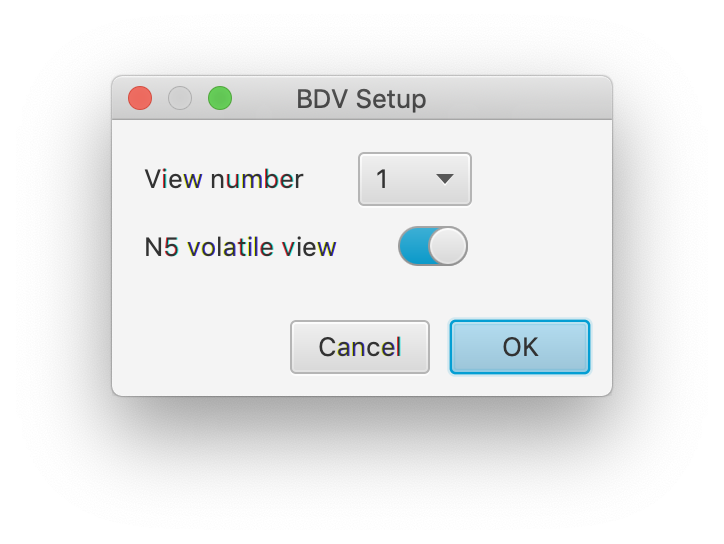
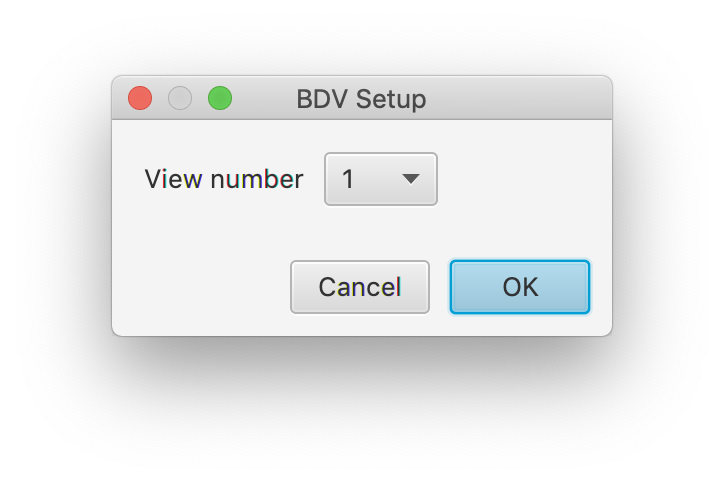
text updates

diff --git a/tutorials/WorkingWithMars/bdv.md b/tutorials/WorkingWithMars/bdv.md
@@ -4,37 +4,58 @@ title: "How to Find Tracked Molecules in the Video"
 permalink: /tutorials/workingwithmars/bdv/index.html
 ---
 
-_level: advanced, duration: 10 min_
+_level: advanced, duration: 15 min_
 
-This tutorial explores the **Rover** option to show a tracked molecule in the original video. This eminently useful function can be used for visual examination of the molecule after analysis for validation of the observed behavior. This would rule out flaws in tracking having a major impact on the drawn conclusion from the data.
+This tutorial explores the **Rover** option to show a tracked molecule in the original video. This enables the user to visually validate the observed behavior and to export small videos showing the movement of a single molecule. The video viewer is based on the [BigDataViewer](https://imagej.net/BigDataViewer#Description)<sup>1</sup> plugin and as such requires converting the video of interest to the BigDataViewer file format XML/HDF5 or in the [N5](https://github.com/saalfeldlab/n5) format.
 
-The video viewer is based on [BigDataViewer](https://imagej.net/BigDataViewer#Description)<sup>1</sup> and as such requires converting the video of interest to the BigDataViewer file format XML/HDF5 or in the [XML/N5](https://github.com/saalfeldlab/n5) format.
+The first part of this tutorial shows how to convert your video to either of these data formats, how to connect the video to the archive, and how to set up the parameters. These steps only have to be executed once per video per Archive and will then be saved for future use. The second part of the tutorial familiarizes the user with the viewer itself and with exporting options.
 
-Steps 1-3 are required to set up the connection between the Molecule Archive and the video. These only have to be executed once per Archive and can then be saved to the Archive for later reference. Please note that the explicit file path is saved, meaning that if the video files were to be stored at a different position, the file path would need to  be updated. If the connection has been established and saved, step 4 and 5 can be executed independently. To start, download the ['TestVideo.tif'](https://github.com/duderstadt-lab/mars-tutorials/tree/master/Tutorial_files/Working%20with%20Mars) dataset from the [git tutorials repository](https://github.com/duderstadt-lab/mars-tutorials/tree/master/Tutorial_files/Working%20with%20Mars).
+### Part one: Video conversion and coupling to the archive
+To start, download the ['TestVideo.tif'](https://github.com/duderstadt-lab/mars-tutorials/tree/master/Tutorial_files/Working%20with%20Mars) dataset from the [git tutorials repository](https://github.com/duderstadt-lab/mars-tutorials/tree/master/Tutorial_files/Working%20with%20Mars).
 
-### 1. Converting the Video to XML/H5 or XML/N5 Format  
-First open the video of interest in Fiji as a stack. Next select the BigDataViewer plugin and select the function "Export Current Image as XML/HDF5" or select "Export Current Image as XML/N5". This will open a dialogue in which the export path has to be set. Press ok and wait until the export process has finished. Find the exported video at the specified file path.
+#### 1. Converting the Video to XML/HDF5 or N5
+**XML/HDF5**
+First open the video of interest in Fiji as a stack. Next select the BigDataViewer plugin and select the function "Export Current Image as XML/HDF5". This will open a dialogue in which the export path has to be set. Press ok and wait until the export process has finished. Find the exported video at the specified file path.
 
 <div style="text-align: center"><img  src='{{site.baseurl}}/tutorials/img/bdv/img1.png' width='450'/></div>
 <div style="text-align: center">
 <img  src='{{site.baseurl}}/tutorials/img/bdv/img2.png' width='350'/>
 <img  src='{{site.baseurl}}/tutorials/img/bdv/img14.png' width='350'/></div>
 
-
 For further information and in-depth documentation about this software and file format please have a look in the [BigDataViewer documentation](https://imagej.net/BigDataViewer#Exporting_Datasets_for_the_BigDataViewer). The XML and H5 files for TestVideo.tif can also be found in the [tutorial repository](https://github.com/duderstadt-lab/mars-tutorials/tree/master/Tutorial_files/Working%20with%20Mars).
 
-### 2. Coupling the file to the Molecule Archive
-The next step is to couple the generated HDF5 or N5 file to the corresponding  Archive. Open the Molecule Archive (Plugins>Molecule Archive Suite>Molecule>Open Archive) and go to the 'Metadata' tab. Move to the 'Bdv Views' tab in the middle window and move to text input field. Provide the desired name tag and press the + button. Select the file and continue. Make sure to select the correct format on the button left of the entry field by clicking on it to switch between N5 and HD5.
+**N5**
+First open the video of interest in Fiji as a stack. Next select File>Save As>Export N5. This will open a dialogue window with the following settings:
+- N5 root: used to set the root directory in which all N5 datasets of the project will be saved. Browse for a location in your file system, add the folder name and end with the .n5 format.
+*For Example:* /Users/UserName/Data/N5_videos.n5
+- Dataset: name of the data set you are converting.
+- Block size: determines in how many blocks the video will be converted. These blocks are either defined as XYT or XYZT. Usually blocks are defined such that the X and Y axis can be devided nicely in even blocks, and C & T are chosen as their full maximum. This would create XY-blocks as shown below that are grouped for all channels (C) and frames (T) per block. **For Example:** {256, 256, 2, 150} for a video of 1024x1024 pixels to be split in 16 blocks with a total amount of 2 channels (C) and 150 frames (T).
+<div style="text-align: center"><img  src='{{site.baseurl}}/tutorials/img/bdv/img19.png' width='450'/></div>
+- Compression: select a compression option. By default choose 'gzip'.
+- Metadata type: select 'None'.
+- Thread count: select how many CPUs will be dedicated to do the conversion.
 
-<div style="text-align: center"><img  src='{{site.baseurl}}/tutorials/img/bdv/img3.png' width='600'/></div>
+Press 'ok' and wait for the command to be finished. Find the exported dataset at the specified file path. More information on the [N5](https://github.com/saalfeldlab/n5) data format can be found [here](https://github.com/saalfeldlab/n5).
 
-This will add the link to the file to the Molecule Archive. A row should appear in the 'Bdv Views' tab showing the provided name tag, some parameter columns and the file path to the HD5 or N5 file.
+<div style="text-align: center"><img  src='{{site.baseurl}}/tutorials/img/bdv/img18.png' width='450'/></div>
 
-<div style="text-align: center"><img  src='{{site.baseurl}}/tutorials/img/bdv/img4.png' width='600'/></div>
+#### 2. Coupling the file to the Molecule Archive
+The next step is to couple the generated HDF5 or N5 file to the corresponding  Archive. Open the Molecule Archive (Plugins>Molecule Archive Suite>Molecule>Open Archive) and go to the 'Metadata' tab. Move to the 'Bdv Sources' tab in the middle window and move to text input field. Select the file format by clicking the 'N5/HD5' button, provide a name and press the + button. Select the file:
+- XML/HDF5: select the 'video.xml' file in the browser. This file was generated in step 1 of this tutorial. Press ok.
+- N5: browse to the N5 root folder (name.n5) that you generated in step 1 of this tutorial. Select and press 'Choose'. Now press 'Detect datasets' to detect the n5 datasets present in this root folder. Select the right one and press ok. The dataset selection window should look similar to the one below.
+<div style="text-align: center"><img  src='{{site.baseurl}}/tutorials/img/bdv/img20.png' width='450'/></div>
 
-Note that during this coupling step the path to the file is specified. When changing the location of the video on the computer, a new coupling to the new location of the file has to be set up.
+If done correctly, the video name should appear in the Bdv Sources list, and when clicked the parameter window shows up. When the file coupling was successful green ticks are placed near to 'path' and/or 'dataset' (only in the case of N5). Note that during this coupling step the path to the file is specified. When changing the location of the video on the computer, a new coupling to the new location of the file has to be set up. The window also allows the user to set parameters for an [Affine2D matrix](https://duderstadt-lab.github.io/mars-docs/tutorials/affine2D/HowToCalculateAffine2D/) if required and correct the video for [drift](https://duderstadt-lab.github.io/mars-docs/docs/molecule/DriftCorrector/).
 
-### 3. Show the Tracked Molecule in the Video
+<div style="text-align: center"><img  src='{{site.baseurl}}/tutorials/img/bdv/img21.png' width='450'/></div>
+
+
+
+---
+
+### Part two: How to work with the video viewer
+
+#### 3. Show the Tracked Molecule in the Video
 Now a connection between the MoleculeArchive and the file has been established the tracked molecule can be viewed in the original video. To do so, select a molecule of interest in **Rover** by selecting it in the 'Molecule' tab. Then open the video tool via Tools>Show Video in the top menu bar of Rover (see screenshot below). A dialog window opens.
 
 <div style="text-align: center"><img  src='{{site.baseurl}}/tutorials/img/bdv/img8.png' width='250'/>
@@ -42,7 +63,6 @@ Now a connection between the MoleculeArchive and the file has been established t
 
 **Inputs**
 * View number - Select the number of viewing windows to be rendered. The position in these windows is correlated such that a selection of a different channel in each allows to look at the observed peak in multiple recorded colors. This can for example be used to study FRET single molecule data.
-* N5 volatile view - Enable to reduce computer memory use.
 
 After pressing OK this opens the video at the position of the selected molecule. Move through the different time points with the slider below to see the movement of the molecule over time. Click on the right of the viewer on the << icon (see arrow) to show the settings menu. Here the current 'channel' can be  selected under sources, display options can be found and settings can be provided on Location and Track.
 
@@ -62,8 +82,10 @@ After pressing OK this opens the video at the position of the selected molecule.
 
 <div style="text-align: center"><img  src='{{site.baseurl}}/tutorials/img/bdv/img17.png' width='400'/></div>
 
+For more information on all BigDataViewer settings the reader is referred to the [documentation page](https://duderstadt-lab.github.io/mars-docs/docs/MarsRover/BDV/)
 
-### 4. Export the Video
+
+#### 4. Export the Video
 To save the video showing the molecule of interest use the 'Export Video' tool in the 'Display' menu on the side of the viewer. Stick with the default settings for the parameters in the popped-up dialogue and press OK.
 
 <div style="text-align: center"><img  src='{{site.baseurl}}/tutorials/img/bdv/img11.png' width='450'/></div>

diff --git a/docs/MarsRover/bdv.md b/docs/MarsRover/bdv.md
@@ -25,7 +25,7 @@ The slider can be used to change the transparency of the label color.
   - Go to molecule: centers the video on the selected molecule.
   - Full view: switches back to viewing the entire video. Please note that this can generate a large computing load in the case of big video files and many annotations shown.
   - Contrast: optimize constrast settings.
-  - Export: export a video cropped around the molecule of interest. Cropping region can be set in the pup-up dialog window. Labels as selected in the 'Location' settings will not be exported in this video.
+  - Export: export a video cropped around the molecule of interest. Cropping region can be set in the pup-up dialog window. Labels as selected in the 'Location' settings will not be exported to this video.
   - Help: general video control options explained.
 - Location:
   - Source: source table for the coordinates.
@@ -38,7 +38,7 @@ The slider can be used to change the transparency of the label color.
     - all: shows all identified molecules. Can only be used in combination with an active 'circle' marker.
     - rainbow: color molecule labels in rainbow colors. Especially useful when looking at all molecules at the same time.
     - label: display a label listing the first characters of the UUID of the molecule. Can only be used in combination with an active 'circle' marker.
-    - follow: if checked, the circle marker will follow the tracked position with respect to T instead of displaying the average position.
+    - follow: if checked, the circle marker will follow the tracked position with respect to T instead of displaying the average position. Can only be used in combination with an active 'circle' marker.
     - rover sync: if checked, the viewer will update the displayed position when a different molecule is selected in the Archive.
   - Radius: sets the radius for the 'circle' marker.
   - Scale factor: factor that determines the zooming around the molecule of interest. Set to a lower value to display a larger portion of the video, and to a higher value to zoom more closely.

diff --git a/tutorials/index.md b/tutorials/index.md
@@ -18,7 +18,7 @@ The files accompanying the tutorials, such as an example dataset, can be found i
   _Skill level: Advanced._  Learn how to create customised widgets for fast initial data analysis on the **Rover** Dashboard.
 * [Kinetic Changepoint Analysis](https://duderstadt-lab.github.io/mars-docs/tutorials/workingwithmars/kcpa)  
   _Skill level: Intermediate._  Learn how to do a kinetic changepoint analysis.
-* [How to Find an Archive Entry back in the Video](https://duderstadt-lab.github.io/mars-docs/tutorials/workingwithmars/bdv/)  
+* [How to Find Tracked Molecules in the Video](https://duderstadt-lab.github.io/mars-docs/tutorials/workingwithmars/bdv/)  
   _Skill level: Advanced._  Learn how to visualise an Molecule Archive entry in the original video. This enables the user to look back at the molecule in the original video.
 
 #### Mars to [ ]

diff --git a/tutorials/WorkingWithMars.md b/tutorials/WorkingWithMars.md
@@ -15,5 +15,5 @@ The files accompanying the tutorials, such as an example dataset, can be found i
   _Skill level: Advanced._  Learn how to create customised widgets for fast initial data analysis on the **Rover** Dashboard.
 * [Kinetic Changepoint Analysis](https://duderstadt-lab.github.io/mars-docs/tutorials/workingwithmars/kcpa)  
   _Skill level: Intermediate._  Learn how to do a kinetic changepoint analysis.
-* [How to Find an Archive Entry back in the Video](https://duderstadt-lab.github.io/mars-docs/tutorials/workingwithmars/bdv/)  
+* [How to Find Tracked Molecules in the Video](https://duderstadt-lab.github.io/mars-docs/tutorials/workingwithmars/bdv/)  
   _Skill level: Advanced._  Learn how to visualise an Molecule Archive entry in the original video. This enables the user to look back at the molecule in the original video.

diff --git a/examples/track-position-on-DNA.md b/examples/track-position-on-DNA.md
@@ -27,7 +27,8 @@ This pipeline has been developed in a modular fashion to allow for maximum flexi
 
 #### <a name="open"></a>Open the sample video with SCIFIO
 
-Use File>Import>Image Sequence... and select the folder that contains the images of the video. Stick with the default settings to load the stack.
+First make sure the SCIFIO option is turned on: Edit>Options>ImageJ2, check the 'Use SCIFIO when opening files' option. This makes sure all metadata can be converted correctly to the archive later on.
+Now open the file: use File>Open... and select the metadata file in the folder that contains the images of the video. A video viewer window opens automatically.
 
 #### <a name="beam"></a>Correct for the beam profile
 
